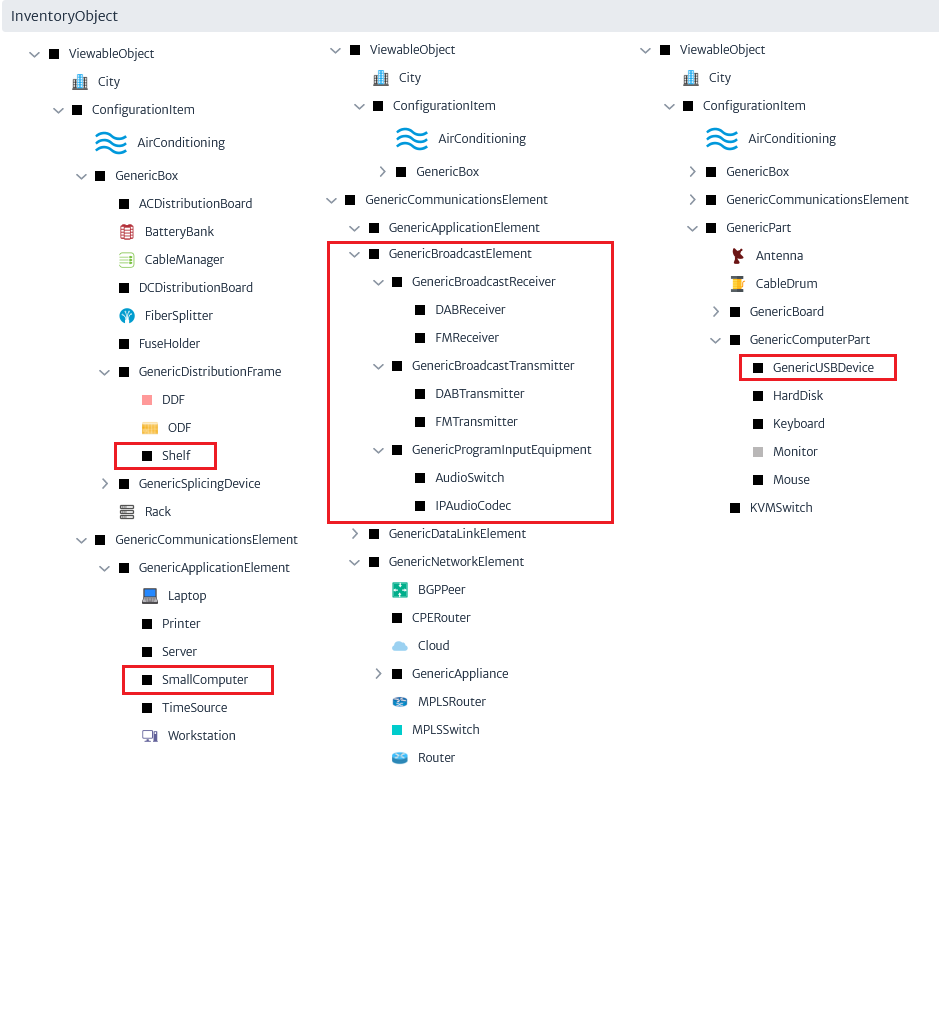
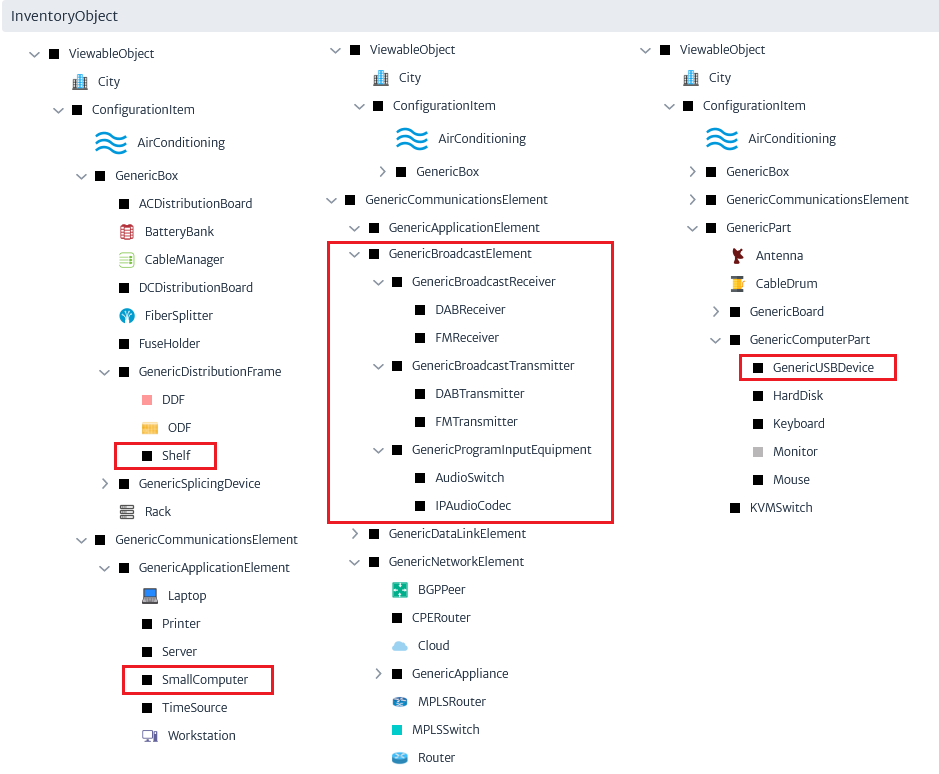
added model details

diff --git a/kuwaiba-opennms-radio/docs/kuwaibaRadioModel.md b/kuwaiba-opennms-radio/docs/kuwaibaRadioModel.md
@@ -2,18 +2,104 @@
 
 [Main Menu](../README.md) | [Radio Modelling](../docs/README.md) | [Kuwaiba Radio Model](../docs/kuwaibaRadioModel.md)
 
-TBD
+## Introduction
+
+This section will discuss how the standard data model shipped with the Kuwaiba 2.1.1 container was extended to more usefully model the Broadcast radio network.
+The object of this exercise was to understand and reuse as much of the existing model and the Kuwaiba modelling capabilities as possible before making any minimal changes.
+This demonstrates modelling a radio network which can data fill OpenNMS but the same model would probably not suit other network topologies without rethinking the containment hierarchy. 
+
+The Kuwaiba system has the capability to support sophisticated models but the model shipped with the system is quite simple and only for demonstration purposes.
+I am told that the usual practice with new Kuwaiba deployments is to work with the new user to design a bespoke data model which matches best the users operations.
+This is pragmatic but probably restricts reuse and more importantly open source sharing of similar data models across users.
+The Kuwaiba UI support most modelling activites and allows hte model to be viewed or reported on from differnt angles. 
+However it is difficult to navigate and contains too many options for the average user. 
+I am told that it practice the standard UI used as an administration tool and bespoke user UI is created better matching the model and processes of each operator.
+ 
+It would, I believe be a useful future exercise to try an create a more comprehensive and coherent base model which aligns more closely with the industry models such as the DMTF CIM or TMForum SID. 
+While more complicated at the start, this would make integration, with other standards conformant systems, model alignment and reuse and user training much simpler going forwards.
 
 
+## Data Model Extensions
 
-![alt text](./images/Rack1PorstmouthObjectView.png "Figure Rack1PorstmouthObjectView.png")
+As far as possible the supplied data model was used however the diagram highlights where extensions were created.
+
+More general changes were added including `Shelf`, `GenericSmallComputer` ( A single board computer such as a Raspberry PI or Intel Nuc) and `GenericUSBDvice`.
+Changes were also made to the containment hierarchy such as allowing a `Rack` to contain `Shelf` which can then hold small computers or other devices devices.
+
+A `CPERouter` is provided to model a small office edge router.
+Broadcast Radio specific devices are also added to model program input equipment and transmitters and receivers.
+
+![alt text](./images/DataModelManager-wireless.png "Figure DataModelManager-wireless.png")
+
+### Equipment Modelling
+
+Each equipment type is Modelled as an instance of one of the `GenericCommunicationsElement` types described above.
+
+The List Type Manager is used to add Manufacturers Equipment Types specific to this model.
+The important field to set is the `display name` field which will later be used to choose which page template is used for this equipment in Grafana.
+
+![alt text](./images/EquipmentModelListTypesManager.png "Figure EquipmentModelListTypesManager.png")
+
+The full equipment model for a DB7012 device is shown below.
+The equipment's ports are modelled and the model is set to the appropriate equipment type.
+
+![alt text](./images/EquipmentModelDB7012.png "Figure EquipmentModelDB7012.png")
+
+## Physical Network Modelling
+
+In this model we have modelled 4 hypothetical radio sites having the same arrangements of equipment. 
 
 
-![alt text](./images/Rack1PorstmouthDABShelf.png "Figure Rack1PorstmouthDABShelf.png")
+### Outside Plant View
 
+The physical location of each station is modelled by including radio sites in an outside plant view.
+
+![alt text](./images/OutsidePlant.png "Figure OutsidePlant.png")
+
+If you zoom in to a site, you can see a site's name and right clicking allows navigation to its model.
+
+![alt text](./images/OutsidePlant2.png "Figure OutsidePlant2.png")
+
+### Equipment Rack Modelling
+
+The diagram below shows the containment relationships used for each radio site.
+
+The equipment for each radio station is contained in a single rack.
+If there are more than one station on a site, additional racks would be used, one for each station.
 
 ![alt text](./images/RelationshipsDABShelf.png "Figure RelationshipsDABShelf.png")
 
+The rack modelling is shown below and the Kuwaiba view of the rack is shown on the [Radio Modelling](../docs/README.md) page.
+
+![alt text](./images/Rack1PorstmouthObjectView.png "Figure Rack1PorstmouthObjectView.png")
+
+Some of the separate components in a rack may be further contained in a shelf.
+
+![alt text](./images/Rack1PorstmouthDABShelf.png "Figure Rack1PorstmouthDABShelf.png")
+
+### Electrical connections
+
+The ports on each equipment an the electrical connections between equipment ports are modelled for power, Ethernet, Analogue Audio and RF signals.
+THis is shown in the somewhat busy Rack Object diagram below.
+
+( PLEASE NOTE only the Portsmouth/Fort Widley site has all of it's wiring modelled as an example. 
+The other sites simply place devices in racks and attach relevant IP addresses to device ports).
+
+![alt text](./images/rack1ObjectViews.png "Figure rack1ObjectViews.png")
+
+### IP Address Modelling IPAM
+
+Each radio site in this managed network is behind a NAT router and has an overlapping address space with other sites (192.168.105.x/24).
+Unfortunately, Kuwaiba has no way to represent this NAT network segmentation in the current IPAM manager.
+
+As a work around, each site is represented as a /24 address space within an overall /22 private subnet. 
+Each site is also placed in a folder representing the `location` of the site (OpenNMS can represent overlapping address spaces by using the monitoring `location` as a name space as well as IP address.
+
+Ports on devices within each sight are associated with the relavant address in the IPAM manager as is shown below for the Fort Widley site.
+
+![alt text](./images/IPAMFTWidley.png "Figure IPAMFTWidley.png")
+
+## Service modelling
 
 ![alt text](./images/servicePools.png "Figure servicePools.png")
 
@@ -24,12 +110,6 @@ Containment Path
 : Radio Stations [Pool of GenericService]: ILR Contractor 1 [Broadcaster]: Broadcasters [Pool of GenericCustomer]
 ```
 
-![alt text](./images/OutsidePlant.png "Figure OutsidePlant.png")
-
-![alt text](./images/OutsidePlant2.png "Figure OutsidePlant.png")
 
 
-![alt text](./images/OutsidePlant2.png "Figure OutsidePlant.png")
 
-
-![alt text](./images/DataModelManager-wireless.png "Figure DataModelManager-wireless.png")
